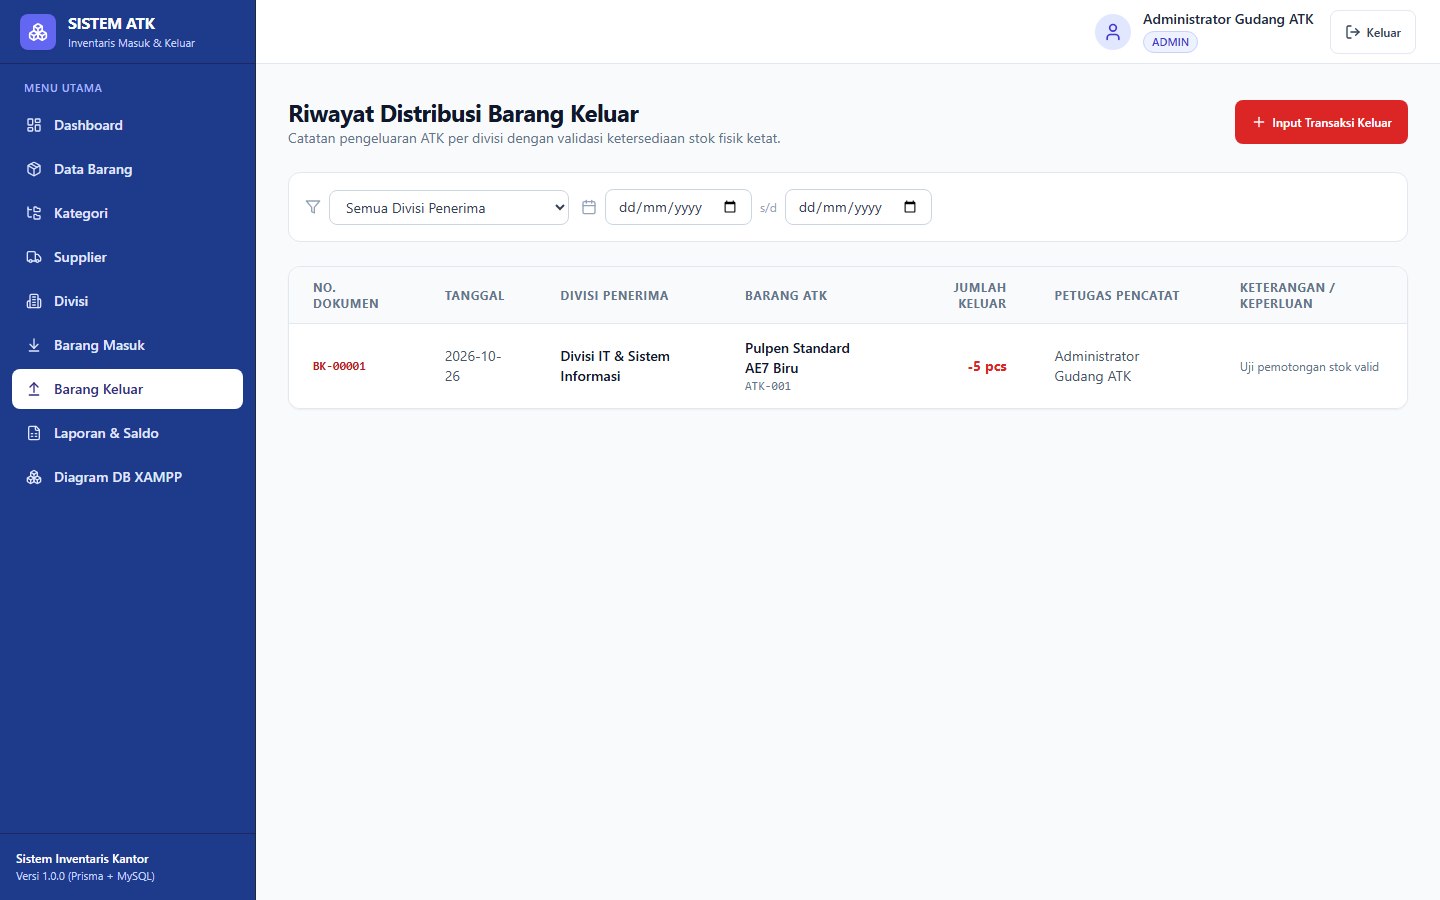
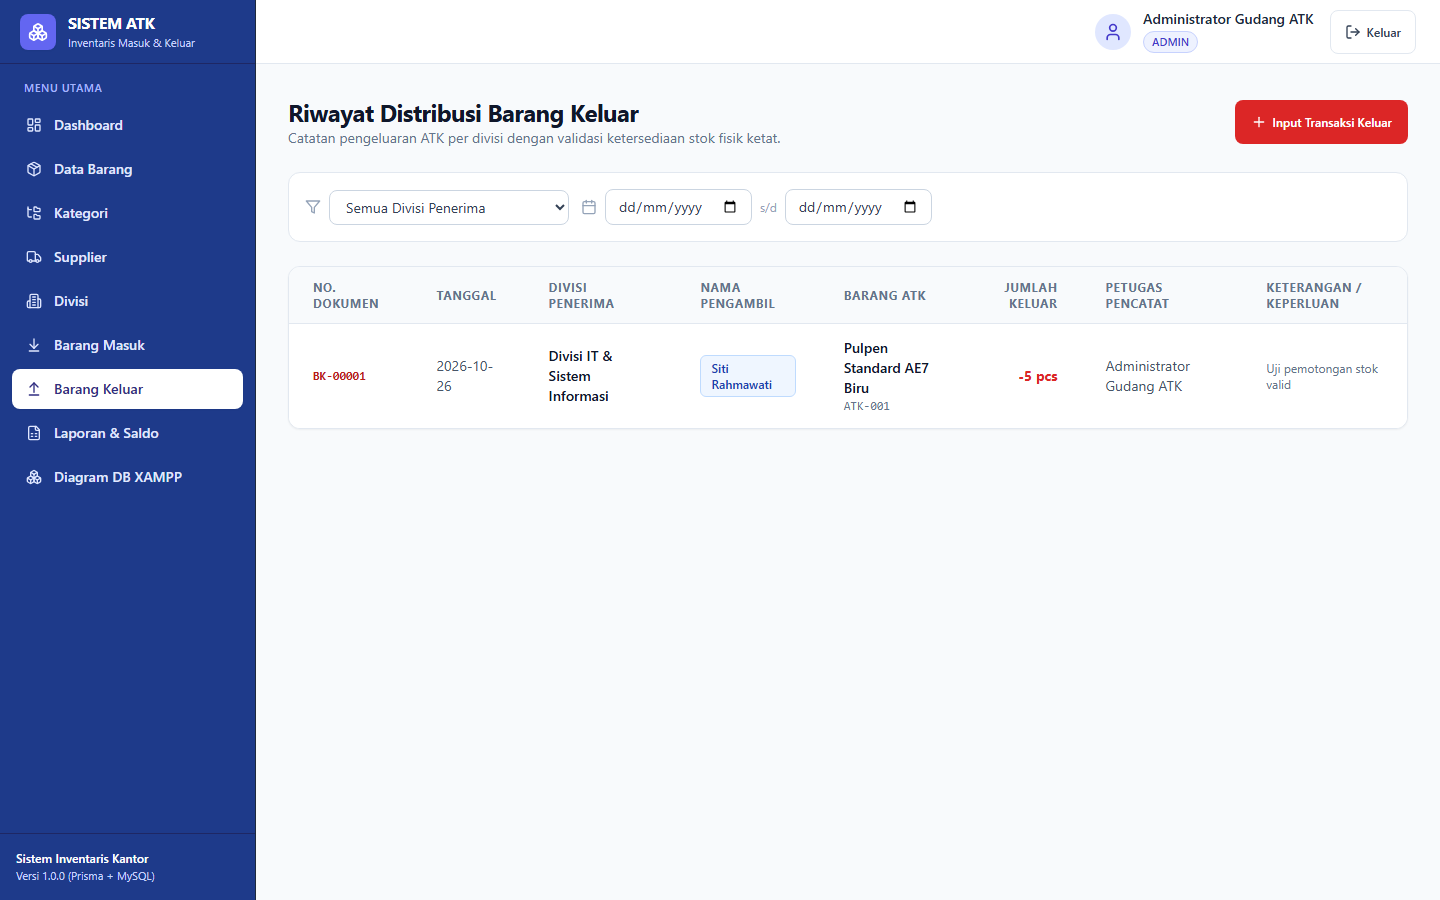
feat(transaksi): add Indonesian personnel name fields for incoming and outgoing stock with designer diagrams

diff --git a/client/src/pages/transaksi/InputBarangKeluarPage.tsx b/client/src/pages/transaksi/InputBarangKeluarPage.tsx
@@ -21,6 +21,7 @@ export const InputBarangKeluarPage: React.FC = () => {
   // Form State
   const [tanggal, setTanggal] = useState(new Date().toISOString().split("T")[0]);
   const [idDivisi, setIdDivisi] = useState("");
+  const [namaPengambil, setNamaPengambil] = useState("Siti Rahmawati");
   const [items, setItems] = useState<RowItem[]>([
     { id_barang: "", jumlah: 1, keterangan: "" },
   ]);
@@ -120,6 +121,7 @@ export const InputBarangKeluarPage: React.FC = () => {
       const res = await apiClient.post("/transaksi/barang-keluar", {
         tanggal,
         id_divisi: Number(idDivisi),
+        nama_pengambil: namaPengambil.trim() || "Siti Rahmawati",
         items: items.map((it) => ({
           id_barang: Number(it.id_barang),
           jumlah: Number(it.jumlah),
@@ -191,7 +193,7 @@ export const InputBarangKeluarPage: React.FC = () => {
           <h2 className="text-sm font-semibold uppercase tracking-wider text-slate-700 mb-4">
             Informasi Dokumen Pengeluaran
           </h2>
-          <div className="grid grid-cols-1 sm:grid-cols-2 gap-4">
+          <div className="grid grid-cols-1 sm:grid-cols-3 gap-4">
             <div>
               <label className="block text-xs font-semibold uppercase tracking-wider text-slate-700">
                 Tanggal Pengeluaran
@@ -222,6 +224,20 @@ export const InputBarangKeluarPage: React.FC = () => {
                   </option>
                 ))}
               </select>
+            </div>
+
+            <div>
+              <label className="block text-xs font-semibold uppercase tracking-wider text-slate-700">
+                Nama Yang Mengambil Barang
+              </label>
+              <input
+                type="text"
+                required
+                value={namaPengambil}
+                onChange={(e) => setNamaPengambil(e.target.value)}
+                placeholder="Contoh: Siti Rahmawati / Riyan Dika"
+                className="mt-1.5 block w-full rounded-lg border border-slate-300 px-3.5 py-2.5 text-sm text-slate-900 focus:border-indigo-600 focus:outline-none focus:ring-1 focus:ring-indigo-600 min-h-[44px]"
+              />
             </div>
           </div>
         </div>

diff --git a/client/src/pages/transaksi/InputBarangMasukPage.tsx b/client/src/pages/transaksi/InputBarangMasukPage.tsx
@@ -21,6 +21,7 @@ export const InputBarangMasukPage: React.FC = () => {
   // Form State
   const [tanggal, setTanggal] = useState(new Date().toISOString().split("T")[0]);
   const [idSupplier, setIdSupplier] = useState("");
+  const [namaPetugas, setNamaPetugas] = useState("Budi Santoso");
   const [items, setItems] = useState<RowItem[]>([
     { id_barang: "", jumlah: 1, keterangan: "" },
   ]);
@@ -91,6 +92,7 @@ export const InputBarangMasukPage: React.FC = () => {
       const res = await apiClient.post("/transaksi/barang-masuk", {
         tanggal,
         id_supplier: Number(idSupplier),
+        nama_petugas: namaPetugas.trim() || "Budi Santoso",
         items: items.map((it) => ({
           id_barang: Number(it.id_barang),
           jumlah: Number(it.jumlah),
@@ -154,7 +156,7 @@ export const InputBarangMasukPage: React.FC = () => {
           <h2 className="text-sm font-semibold uppercase tracking-wider text-slate-700 mb-4">
             Informasi Dokumen Penerimaan
           </h2>
-          <div className="grid grid-cols-1 sm:grid-cols-2 gap-4">
+          <div className="grid grid-cols-1 sm:grid-cols-3 gap-4">
             <div>
               <label className="block text-xs font-semibold uppercase tracking-wider text-slate-700">
                 Tanggal Penerimaan
@@ -185,6 +187,20 @@ export const InputBarangMasukPage: React.FC = () => {
                   </option>
                 ))}
               </select>
+            </div>
+
+            <div>
+              <label className="block text-xs font-semibold uppercase tracking-wider text-slate-700">
+                Yang Menaruh Stok
+              </label>
+              <input
+                type="text"
+                required
+                value={namaPetugas}
+                onChange={(e) => setNamaPetugas(e.target.value)}
+                placeholder="Contoh: Budi Santoso / Ahmad Fauzi"
+                className="mt-1.5 block w-full rounded-lg border border-slate-300 px-3.5 py-2.5 text-sm text-slate-900 focus:border-indigo-600 focus:outline-none focus:ring-1 focus:ring-indigo-600 min-h-[44px]"
+              />
             </div>
           </div>
         </div>

diff --git a/server/src/controllers/transaksi.controller.ts b/server/src/controllers/transaksi.controller.ts
@@ -26,7 +26,7 @@ export class InsufficientStockError extends Error {
 export const createBarangMasuk = async (req: Request, res: Response, next: NextFunction) => {
   try {
     const userId = req.user!.id_user;
-    const { tanggal, id_supplier, items } = req.body;
+    const { tanggal, id_supplier, nama_petugas, items } = req.body;
 
     // Verify supplier exists
     const supplier = await prisma.supplier.findUnique({
@@ -70,6 +70,7 @@ export const createBarangMasuk = async (req: Request, res: Response, next: NextF
             jumlah,
             id_supplier: Number(id_supplier),
             id_user: userId,
+            nama_petugas: nama_petugas?.trim() || "Budi Santoso",
             keterangan: item.keterangan || null,
           },
           include: {
@@ -168,7 +169,7 @@ export const getBarangMasukList = async (req: Request, res: Response, next: Next
 export const createBarangKeluar = async (req: Request, res: Response, next: NextFunction) => {
   try {
     const userId = req.user!.id_user;
-    const { tanggal, id_divisi, items } = req.body;
+    const { tanggal, id_divisi, nama_pengambil, items } = req.body;
 
     // Verify divisi exists
     const divisi = await prisma.divisi.findUnique({
@@ -219,6 +220,7 @@ export const createBarangKeluar = async (req: Request, res: Response, next: Next
               jumlah,
               id_divisi: Number(id_divisi),
               id_user: userId,
+              nama_pengambil: nama_pengambil?.trim() || "Siti Rahmawati",
               keterangan: item.keterangan || null,
             },
             include: {

diff --git a/server/src/controllers/report.controller.ts b/server/src/controllers/report.controller.ts
@@ -54,7 +54,7 @@ export const getMutasiReportData = async (req: Request, res: Response, next: Nex
           kategori: m.barang.kategori.nama_kategori,
           jumlah: m.jumlah,
           satuan: m.barang.satuan,
-          petugas: m.user.nama,
+          petugas: m.nama_petugas ? `${m.nama_petugas} (${m.user.nama})` : m.user.nama,
           keterangan: m.keterangan || "-",
         }))
       );
@@ -88,7 +88,7 @@ export const getMutasiReportData = async (req: Request, res: Response, next: Nex
           kategori: k.barang.kategori.nama_kategori,
           jumlah: k.jumlah,
           satuan: k.barang.satuan,
-          petugas: k.user.nama,
+          petugas: k.nama_pengambil ? `${k.nama_pengambil} (${k.user.nama})` : k.user.nama,
           keterangan: k.keterangan || "-",
         }))
       );
@@ -354,7 +354,7 @@ export const exportReport = async (req: Request, res: Response, next: NextFuncti
           kategori: m.barang.kategori.nama_kategori,
           jumlah: m.jumlah,
           satuan: m.barang.satuan,
-          petugas: m.user.nama,
+          petugas: m.nama_petugas || m.user.nama,
           keterangan: m.keterangan || "-",
         }))
       );
@@ -386,7 +386,7 @@ export const exportReport = async (req: Request, res: Response, next: NextFuncti
           kategori: k.barang.kategori.nama_kategori,
           jumlah: k.jumlah,
           satuan: k.barang.satuan,
-          petugas: k.user.nama,
+          petugas: k.nama_pengambil || k.user.nama,
           keterangan: k.keterangan || "-",
         }))
       );

diff --git a/client/src/pages/transaksi/BarangMasukPage.tsx b/client/src/pages/transaksi/BarangMasukPage.tsx
@@ -140,6 +140,7 @@ export const BarangMasukPage: React.FC = () => {
                   <th className="px-6 py-3">No. Dokumen</th>
                   <th className="px-6 py-3">Tanggal</th>
                   <th className="px-6 py-3">Supplier</th>
+                  <th className="px-6 py-3">Yang Menaruh Stok</th>
                   <th className="px-6 py-3">Barang ATK</th>
                   <th className="px-6 py-3 text-right">Jumlah Masuk</th>
                   <th className="px-6 py-3">Petugas Pencatat</th>
@@ -157,6 +158,11 @@ export const BarangMasukPage: React.FC = () => {
                     </td>
                     <td className="px-6 py-3.5 font-medium text-slate-900">
                       {rec.supplier.nama_supplier}
+                    </td>
+                    <td className="px-6 py-3.5 font-medium text-slate-800">
+                      <span className="inline-flex items-center gap-1 rounded-md bg-emerald-50 border border-emerald-200 px-2.5 py-1 text-xs font-semibold text-emerald-800">
+                        {rec.nama_petugas || "Budi Santoso"}
+                      </span>
                     </td>
                     <td className="px-6 py-3.5">
                       <div className="font-medium text-slate-900">{rec.barang.nama_barang}</div>

diff --git a/client/src/pages/transaksi/BarangKeluarPage.tsx b/client/src/pages/transaksi/BarangKeluarPage.tsx
@@ -140,6 +140,7 @@ export const BarangKeluarPage: React.FC = () => {
                   <th className="px-6 py-3">No. Dokumen</th>
                   <th className="px-6 py-3">Tanggal</th>
                   <th className="px-6 py-3">Divisi Penerima</th>
+                  <th className="px-6 py-3">Nama Pengambil</th>
                   <th className="px-6 py-3">Barang ATK</th>
                   <th className="px-6 py-3 text-right">Jumlah Keluar</th>
                   <th className="px-6 py-3">Petugas Pencatat</th>
@@ -157,6 +158,11 @@ export const BarangKeluarPage: React.FC = () => {
                     </td>
                     <td className="px-6 py-3.5 font-medium text-slate-900">
                       {rec.divisi.nama_divisi}
+                    </td>
+                    <td className="px-6 py-3.5 font-medium text-slate-800">
+                      <span className="inline-flex items-center gap-1 rounded-md bg-blue-50 border border-blue-200 px-2.5 py-1 text-xs font-semibold text-blue-800">
+                        {rec.nama_pengambil || "Siti Rahmawati"}
+                      </span>
                     </td>
                     <td className="px-6 py-3.5">
                       <div className="font-medium text-slate-900">{rec.barang.nama_barang}</div>

diff --git a/server/src/schemas/transaction.schema.ts b/server/src/schemas/transaction.schema.ts
@@ -10,6 +10,7 @@ export const barangMasukCreateSchema = z.object({
   body: z.object({
     tanggal: z.string().regex(/^\d{4}-\d{2}-\d{2}$/, "Format tanggal harus YYYY-MM-DD"),
     id_supplier: z.coerce.number().int().positive("Supplier harus dipilih"),
+    nama_petugas: z.string().trim().max(100).optional().nullable(),
     items: z
       .array(transactionItemSchema)
       .min(1, "Minimal harus ada 1 item barang yang dimasukkan"),
@@ -20,6 +21,7 @@ export const barangKeluarCreateSchema = z.object({
   body: z.object({
     tanggal: z.string().regex(/^\d{4}-\d{2}-\d{2}$/, "Format tanggal harus YYYY-MM-DD"),
     id_divisi: z.coerce.number().int().positive("Divisi penerima harus dipilih"),
+    nama_pengambil: z.string().trim().max(100).optional().nullable(),
     items: z
       .array(transactionItemSchema)
       .min(1, "Minimal harus ada 1 item barang yang dikeluarkan"),

diff --git a/client/src/pages/database/DatabaseDesignerPage.tsx b/client/src/pages/database/DatabaseDesignerPage.tsx
@@ -94,6 +94,7 @@ const TABLES: TableDef[] = [
       { name: "jumlah", type: "int(11)" },
       { name: "id_supplier", type: "int(11)", isFk: true },
       { name: "id_user", type: "int(11)", isFk: true },
+      { name: "nama_petugas", type: "varchar(100)", nullable: true },
       { name: "keterangan", type: "varchar(255)", nullable: true },
       { name: "created_at", type: "datetime" },
     ],
@@ -125,6 +126,7 @@ const TABLES: TableDef[] = [
       { name: "jumlah", type: "int(11)" },
       { name: "id_divisi", type: "int(11)", isFk: true },
       { name: "id_user", type: "int(11)", isFk: true },
+      { name: "nama_pengambil", type: "varchar(100)", nullable: true },
       { name: "keterangan", type: "varchar(255)", nullable: true },
       { name: "created_at", type: "datetime" },
     ],

diff --git a/client/src/types/index.ts b/client/src/types/index.ts
@@ -58,6 +58,7 @@ export interface BarangMasukRecord {
   jumlah: number;
   id_supplier: number;
   id_user: number;
+  nama_petugas?: string | null;
   keterangan?: string | null;
   barang: {
     id_barang: number;
@@ -83,6 +84,7 @@ export interface BarangKeluarRecord {
   jumlah: number;
   id_divisi: number;
   id_user: number;
+  nama_pengambil?: string | null;
   keterangan?: string | null;
   barang: {
     id_barang: number;
